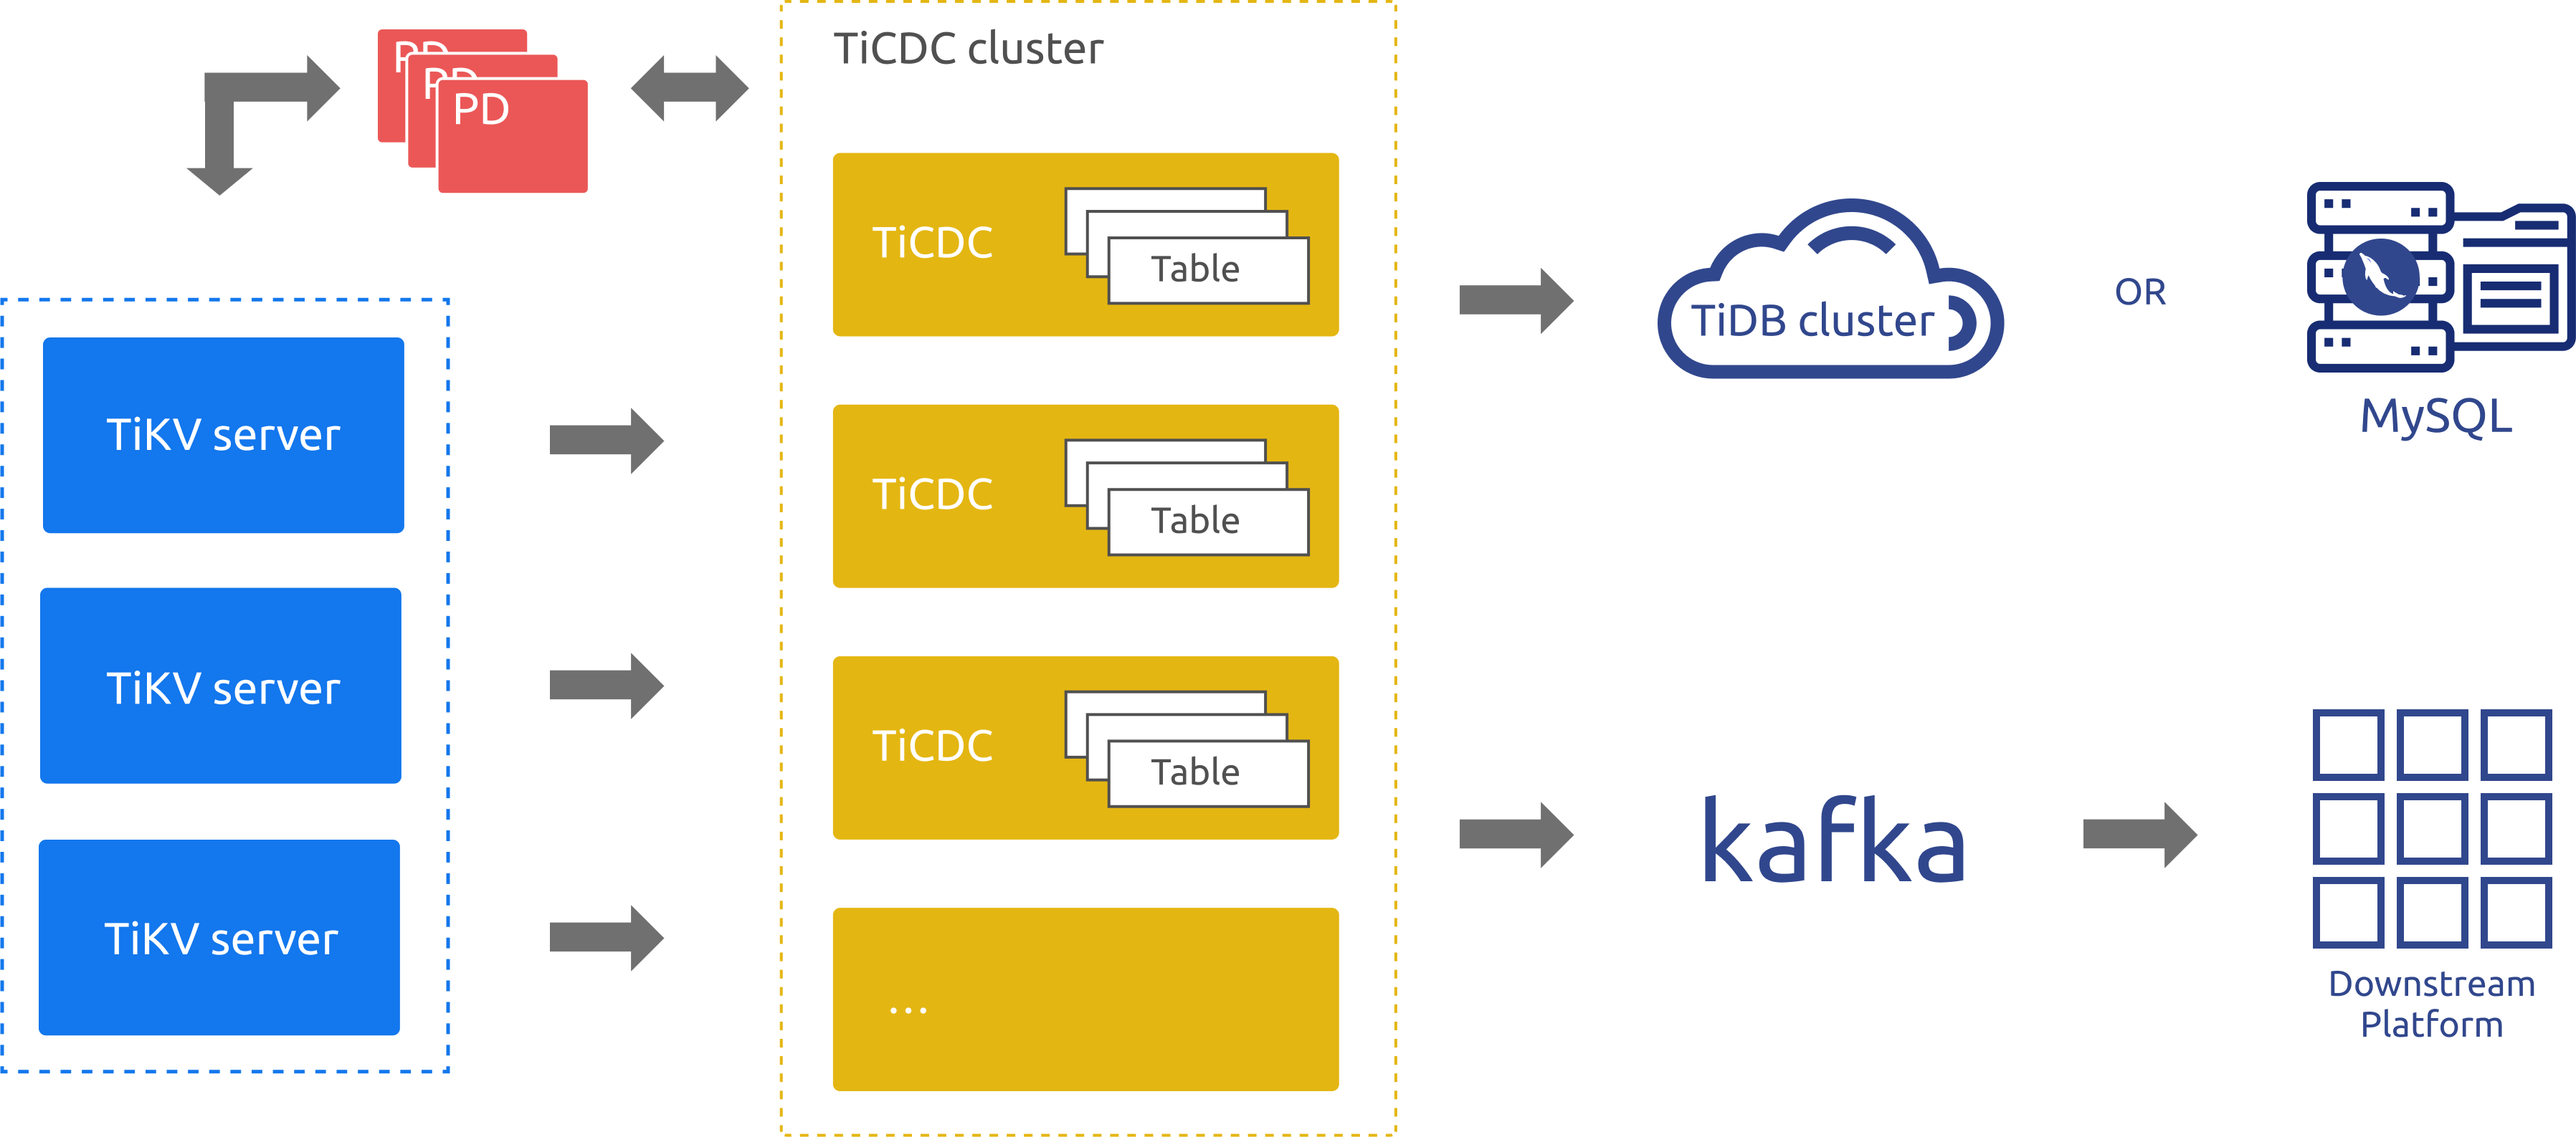
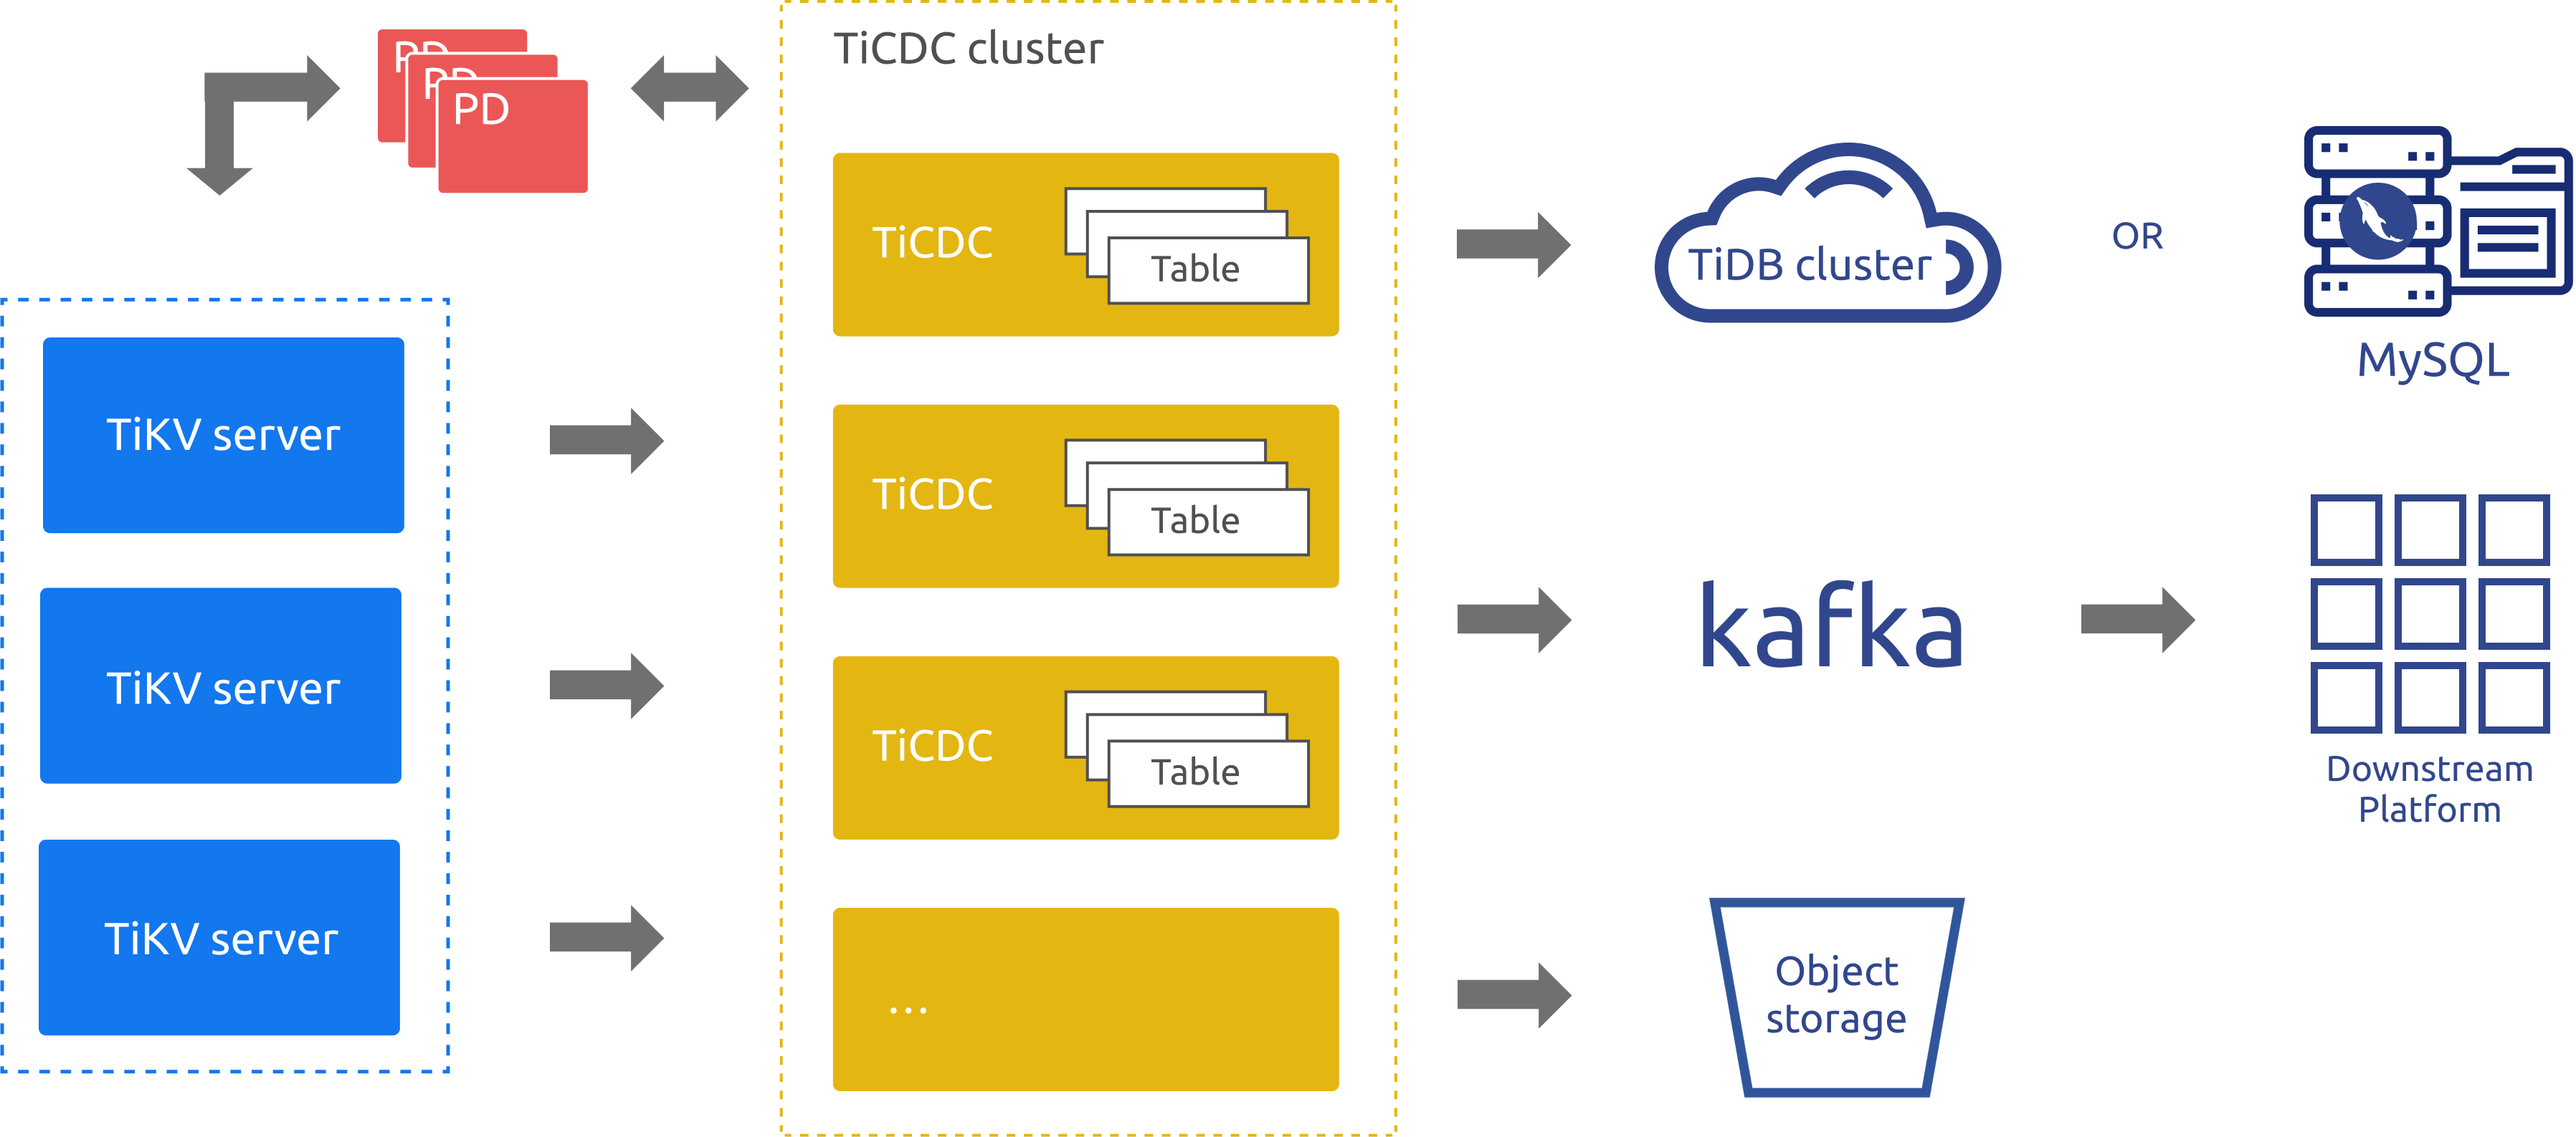
ticdc: add the Storage Sink feature to ticdc-overview.md (#14958) (#15044)

diff --git a/production-deployment-using-tiup.md b/production-deployment-using-tiup.md
@@ -275,7 +275,7 @@ The following examples cover seven common scenarios. You need to modify the conf
 | :-- | :-- | :-- | :-- |
 | OLTP | [Deploy minimal topology](/minimal-deployment-topology.md) | [Simple minimal configuration template](https://github.com/pingcap/docs/blob/master/config-templates/simple-mini.yaml) <br/> [Full minimal configuration template](https://github.com/pingcap/docs/blob/master/config-templates/complex-mini.yaml) | This is the basic cluster topology, including tidb-server, tikv-server, and pd-server. |
 | HTAP | [Deploy the TiFlash topology](/tiflash-deployment-topology.md) | [Simple TiFlash configuration template](https://github.com/pingcap/docs/blob/master/config-templates/simple-tiflash.yaml) <br/> [Full TiFlash configuration template](https://github.com/pingcap/docs/blob/master/config-templates/complex-tiflash.yaml) | This is to deploy TiFlash along with the minimal cluster topology. TiFlash is a columnar storage engine, and gradually becomes a standard cluster topology. |
-| Replicate incremental data using [TiCDC](/ticdc/ticdc-overview.md) | [Deploy the TiCDC topology](/ticdc-deployment-topology.md) | [Simple TiCDC configuration template](https://github.com/pingcap/docs/blob/master/config-templates/simple-cdc.yaml) <br/> [Full TiCDC configuration template](https://github.com/pingcap/docs/blob/master/config-templates/complex-cdc.yaml) | This is to deploy TiCDC along with the minimal cluster topology. TiCDC supports multiple downstream platforms, such as TiDB, MySQL, and MQ. |
+| Replicate incremental data using [TiCDC](/ticdc/ticdc-overview.md) | [Deploy the TiCDC topology](/ticdc-deployment-topology.md) | [Simple TiCDC configuration template](https://github.com/pingcap/docs/blob/master/config-templates/simple-cdc.yaml) <br/> [Full TiCDC configuration template](https://github.com/pingcap/docs/blob/master/config-templates/complex-cdc.yaml) | This is to deploy TiCDC along with the minimal cluster topology. TiCDC supports multiple downstream platforms, such as TiDB, MySQL, Kafka, MQ, and storage services. |
 | Replicate incremental data using [TiDB Binlog](/tidb-binlog/tidb-binlog-overview.md) | [Deploy the TiDB Binlog topology](/tidb-binlog-deployment-topology.md) | [Simple TiDB Binlog configuration template (MySQL as downstream)](https://github.com/pingcap/docs/blob/master/config-templates/simple-tidb-binlog.yaml) <br/> [Simple TiDB Binlog configuration template (Files as downstream)](https://github.com/pingcap/docs/blob/master/config-templates/simple-file-binlog.yaml) <br/> [Full TiDB Binlog configuration template](https://github.com/pingcap/docs/blob/master/config-templates/complex-tidb-binlog.yaml) | This is to deploy TiDB Binlog along with the minimal cluster topology. |
 | Use OLAP on Spark | [Deploy the TiSpark topology](/tispark-deployment-topology.md) | [Simple TiSpark configuration template](https://github.com/pingcap/docs/blob/master/config-templates/simple-tispark.yaml) <br/> [Full TiSpark configuration template](https://github.com/pingcap/docs/blob/master/config-templates/complex-tispark.yaml) |  This is to deploy TiSpark along with the minimal cluster topology. TiSpark is a component built for running Apache Spark on top of TiDB/TiKV to answer the OLAP queries. Currently, TiUP cluster's support for TiSpark is still **experimental**. |
 | Deploy multiple instances on a single machine | [Deploy a hybrid topology](/hybrid-deployment-topology.md) | [Simple configuration template for hybrid deployment](https://github.com/pingcap/docs/blob/master/config-templates/simple-multi-instance.yaml) <br/> [Full configuration template for hybrid deployment](https://github.com/pingcap/docs/blob/master/config-templates/complex-multi-instance.yaml) | The deployment topologies also apply when you need to add extra configurations for the directory, port, resource ratio, and label. |

diff --git a/ticdc/ticdc-overview.md b/ticdc/ticdc-overview.md
@@ -24,6 +24,7 @@ TiCDC has the following key capabilities:
 - Bidirectional replication between TiDB clusters, allowing the creation of a multi-active TiDB solution using TiCDC.
 - Replicating incremental data from a TiDB cluster to a MySQL database or other MySQL-compatible databases with low latency.
 - Replicating incremental data from a TiDB cluster to a Kafka cluster. The recommended data format includes [Canal-JSON](/ticdc/ticdc-canal-json.md) and [Avro](/ticdc/ticdc-avro-protocol.md).
+- Replicating incremental data from a TiDB cluster to storage services, such as Amazon S3, GCS, Azure Blob Storage, and NFS.
 - Replicating tables with the ability to filter databases, tables, DMLs, and DDLs.
 - High availability with no single point of failure, supporting dynamically adding and deleting TiCDC nodes.
 - Cluster management through [Open API](/ticdc/ticdc-open-api-v2.md), including querying task status, dynamically modifying task configuration, and creating or deleting tasks.
@@ -69,7 +70,7 @@ The components in the architecture diagram are described as follows:
 - TiCDC: TiCDC nodes where TiCDC processes run. Each node runs a TiCDC process. Each process pulls data changes from one or more tables in TiKV nodes and replicates the changes to the downstream system through the sink component.
 - PD: The scheduling module in a TiDB cluster. This module is responsible for scheduling cluster data and usually consists of three PD nodes. PD provides high availability through the etcd cluster. In the etcd cluster, TiCDC stores its metadata, such as node status information and changefeed configurations.
 
-As shown in the architecture diagram, TiCDC supports replicating data to TiDB, MySQL, and Kafka databases.
+As shown in the architecture diagram, TiCDC supports replicating data to TiDB, MySQL, Kafka, and storage services.
 
 ## Best practices
 

diff --git a/ticdc-deployment-topology.md b/ticdc-deployment-topology.md
@@ -11,7 +11,7 @@ summary: Learn the deployment topology of TiCDC based on the minimal TiDB topolo
 
 This document describes the deployment topology of [TiCDC](/ticdc/ticdc-overview.md) based on the minimal cluster topology.
 
-TiCDC is a tool for replicating the incremental data of TiDB, introduced in TiDB 4.0. It supports multiple downstream platforms, such as TiDB, MySQL, and MQ. Compared with TiDB Binlog, TiCDC has lower latency and native high availability.
+TiCDC is a tool for replicating the incremental data of TiDB, introduced in TiDB 4.0. It supports multiple downstream platforms, such as TiDB, MySQL, Kafka, MQ, and storage services. Compared with TiDB Binlog, TiCDC has lower latency and native high availability.
 
 ## Topology information
 

diff --git a/migration-tools.md b/migration-tools.md
@@ -57,7 +57,7 @@ This document introduces the user scenarios, supported upstreams and downstreams
 
 - **User scenario**: This tool is implemented by pulling TiKV change logs. It can restore cluster data to a consistent state with any upstream TSO, and support other systems to subscribe to data changes.
 - **Upstream**: TiDB
-- **Downstream**: TiDB, MySQL, Kafka, Confluent
+- **Downstream**: TiDB, MySQL, Kafka, MQ, Confluent, storage services such as Amazon S3, GCS, Azure Blob Storage, and NFS.
 - **Advantages**: Provide TiCDC Open Protocol
 - **Limitation**: TiCDC only replicates tables that have at least one valid index. The following scenarios are not supported:
     - The TiKV cluster that uses RawKV alone.
